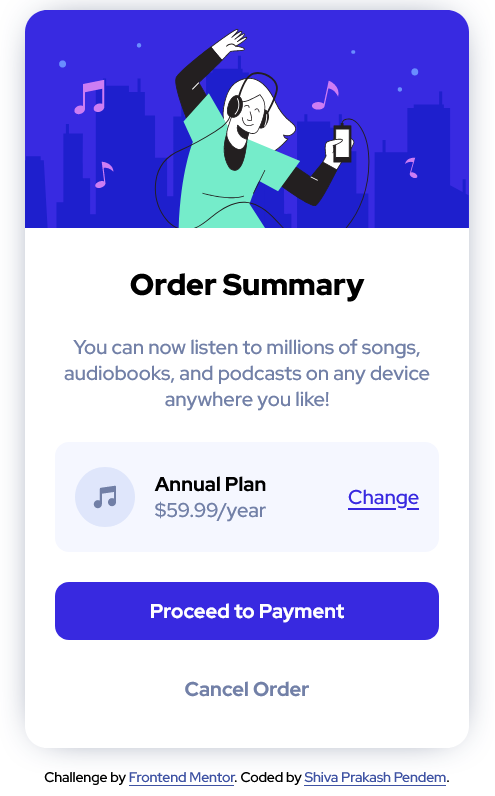
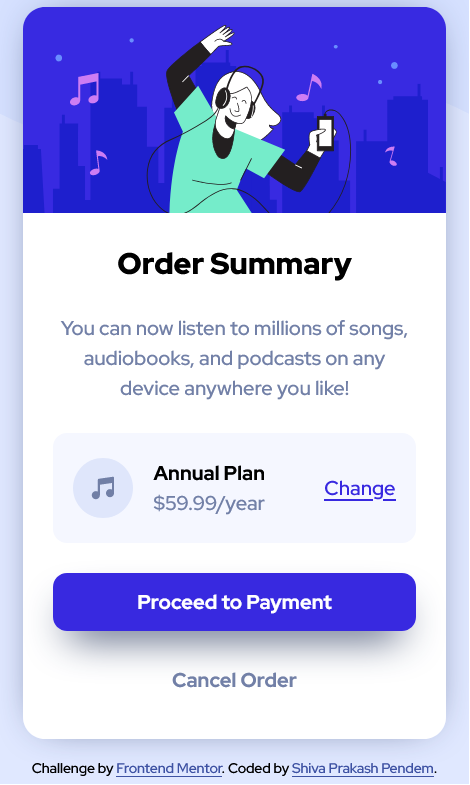
update screenshots and add line height to p

diff --git a/styles/css/styles.css b/styles/css/styles.css
@@ -148,6 +148,9 @@ body .container {
   padding: 1.5rem;
   background-color: hsl(255deg, 100%, 100%);
 }
+.card__content p {
+  line-height: 1.5;
+}
 .card__cost-plan {
   padding: 1.25rem 1rem;
   background: hsl(225deg, 100%, 98%);

diff --git a/styles/scss/components/_card.scss b/styles/scss/components/_card.scss
@@ -20,6 +20,10 @@
     gap: 1.5rem;
     padding: 1.5rem;
     background-color: hsl(255, 100%, 100%);
+
+    p {
+      line-height: 1.5;
+    }
   }
 
   &__cost-plan {
